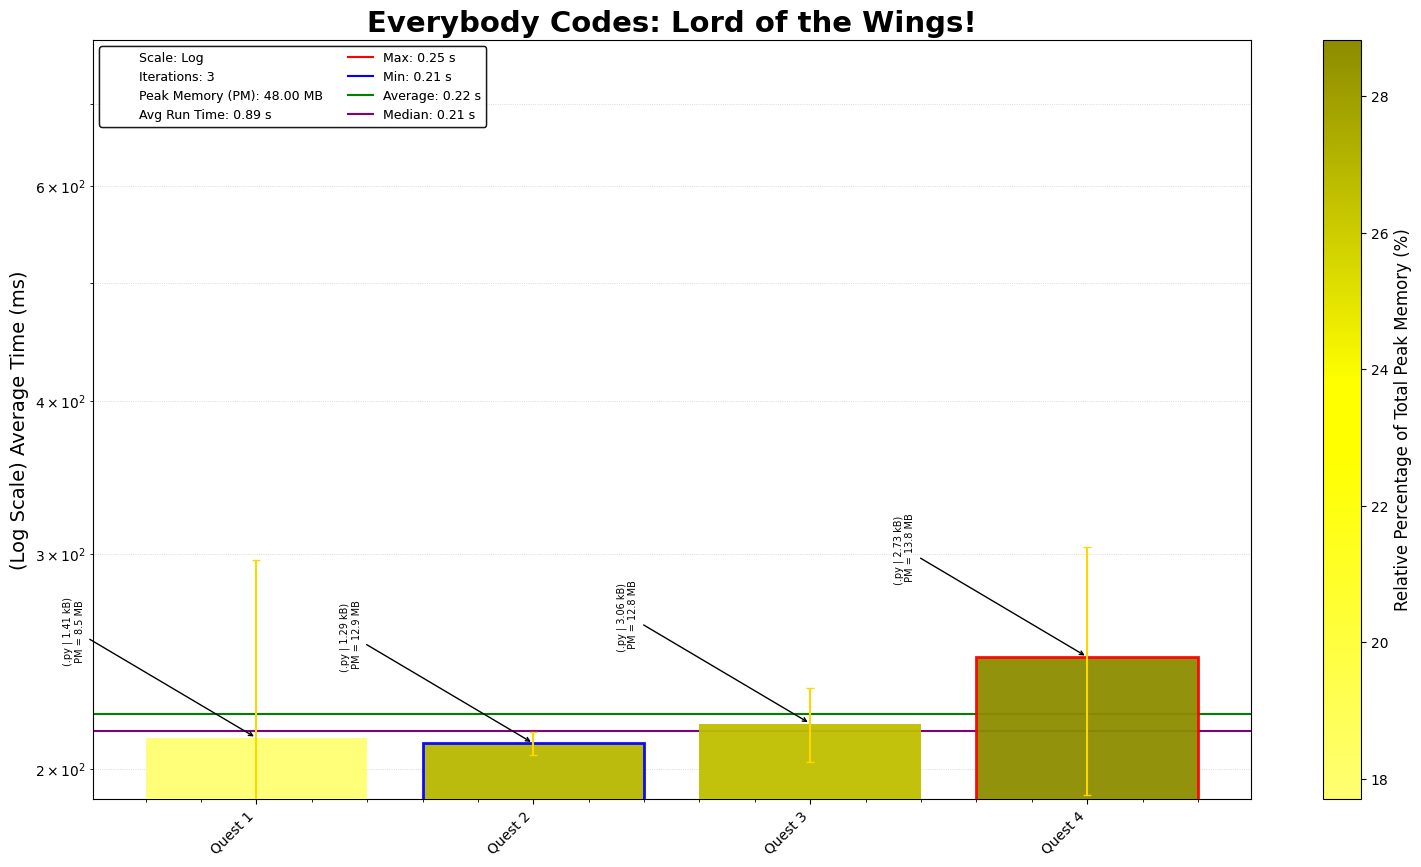
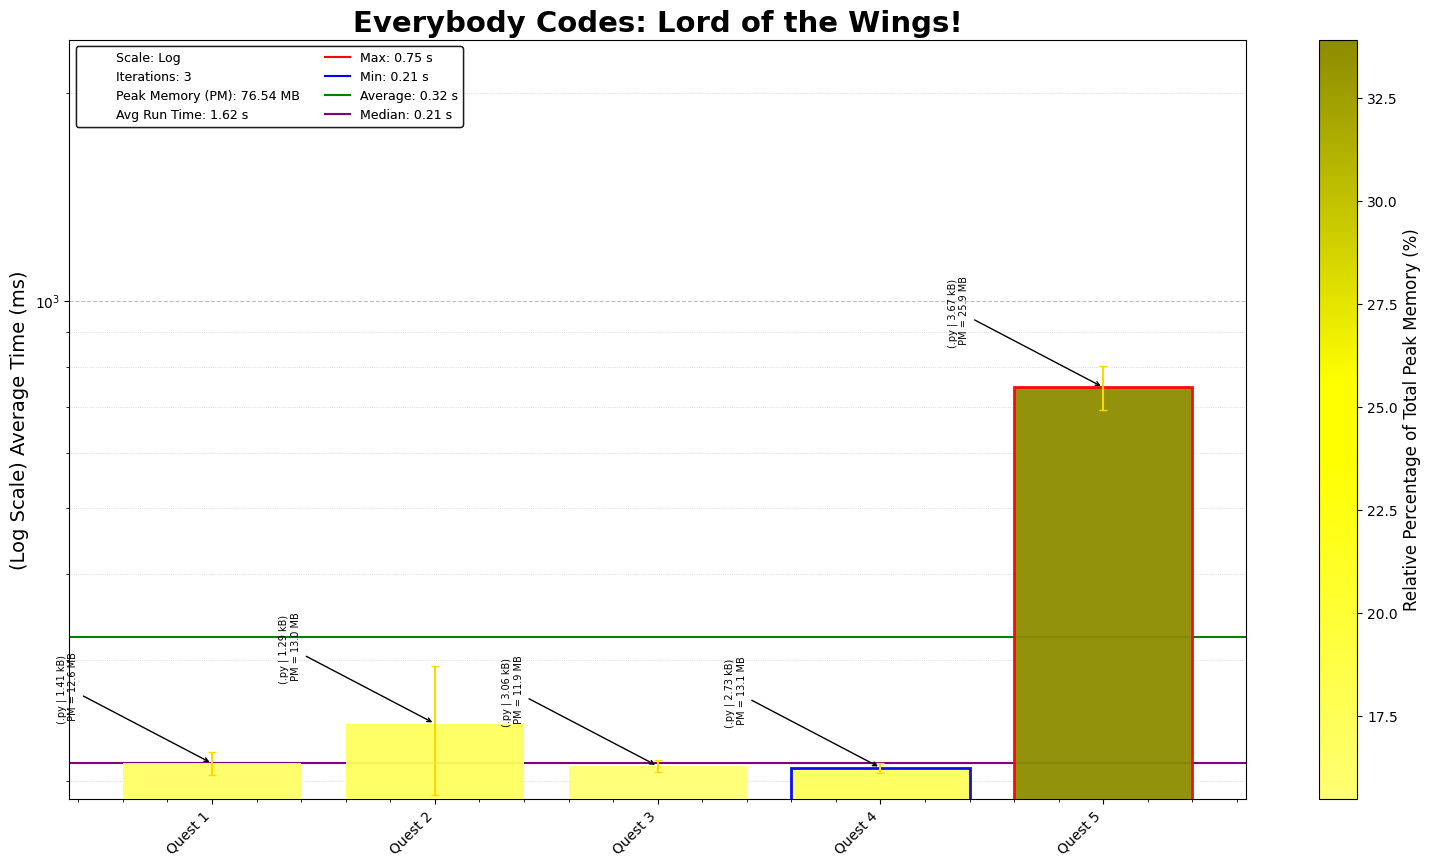
EC 2026, Quest 05

diff --git a/2026/05/2026Day05.py b/2026/05/2026Day05.py
@@ -1,0 +1,111 @@
+"""Everybody Codes - Quest 5, Year 2026
+Solution Started: October 31, 2026
+Puzzle Link: https://everybody.codes/event/2026/quests/5
+Solution by: Abbas Moosajee
+Brief: [The Cartograffity]"""
+
+#!/usr/bin/env python3
+from pathlib import Path
+from collections import defaultdict, deque
+# List of input file names
+input_files = ["Day05_input_p1.txt", "Day05_input_p2.txt", "Day05_input_p3.txt"]
+
+# Read and split the input data into individual lists
+input_data_p1, input_data_p2, input_data_p3 = [
+    open(Path(__file__).parent / file).read().strip().split('\n')
+    for file in input_files
+]
+
+class Cartograffity:
+    neighbors = [(0,1), (1,0), (0,-1), (-1,0), (1,1), (-1,-1), (-1,1), (1,-1)]
+
+    def __init__(self, init_grid):
+        self.mid_point = (len(init_grid)//2, len(init_grid[0])//2)
+        grid_dict = defaultdict(int)
+        for row_no, row in enumerate(init_grid):
+            for col_no, cell in enumerate(row):
+                pos = (row_no, col_no)
+                grid_dict[pos] = int(cell)
+        self.grid_dict = grid_dict
+
+    def build_land(self):
+        land = {self.mid_point}
+        queue = deque([self.mid_point])
+
+        def qualifies(cell):
+            count = 0
+            for dr, dc in self.neighbors:
+                n = (cell[0] + dr, cell[1] + dc)
+                if n in land or self.grid_dict.get(n, 0) == 1:
+                    count += 1
+            return count >= 5
+
+        while queue:
+            curr = queue.popleft()
+            for dr, dc in self.neighbors:
+                cand = (curr[0] + dr, curr[1] + dc)
+                if cand in land or cand not in self.grid_dict:
+                    continue
+                if qualifies(cand):
+                    land.add(cand)
+                    queue.append(cand)
+
+        return land
+
+    def add_coast(self):
+        land = self.build_land()  # build_land must return the set
+
+        sand = set()
+        for point in land:
+            for dr, dc in self.neighbors:
+                cand = (point[0] + dr, point[1] + dc)
+                if cand not in land:
+                    sand.add(point)
+
+        queue = deque(sand)
+        while queue:
+            curr = queue.popleft()
+            for dr, dc in self.neighbors:
+                cand = (curr[0] + dr, curr[1] + dc)
+                if cand not in land or cand in sand:
+                    continue
+                count = sum(
+                    (cand[0] + a, cand[1] + b) in sand
+                    for a, b in self.neighbors
+                )
+                if count >= 5:
+                    sand.add(cand)
+                    queue.append(cand)
+
+        return sand
+
+    def plant_trees(self):
+        land = self.build_land()
+        sand = self.add_coast()
+
+        ground = land - sand
+
+        stamp = [(dr, dc) for dr in range(-2, 3) for dc in range(-2, 3)
+                    if not (abs(dr) == 2 and abs(dc) == 2)]
+
+        trees = {
+            (r, c) for (r, c) in ground
+            if all((r + dr, c + dc) in ground for dr, dc in stamp)
+        }
+
+        for _ in range(2):
+            new_trees = set()
+            for cell in ground - trees:
+                nbrs = [(cell[0] + dr, cell[1] + dc) for dr, dc in self.neighbors]
+                if any(n in sand for n in nbrs):
+                    continue
+                if sum(n in trees for n in nbrs) >= 4:
+                    new_trees.add(cell)
+            trees |= new_trees
+
+        return trees
+print("EC 2026, Quest 05")
+print("Part 1:",len(Cartograffity(input_data_p1).build_land()))
+print("Part 2:",len(Cartograffity(input_data_p2).add_coast()))
+print("Part 2:",len(Cartograffity(input_data_p3).plant_trees()))
+

diff --git a/2026/README_2026.md b/2026/README_2026.md
@@ -10,3 +10,4 @@ This repository contains coding solutions for the 2026 Everybody Codes. Each day
 2. **Day 2 - The Axeperiment**: Well this was a different algorithm to learn
 3. **Day 3 - The ISOlation**: Simple and fun exercise, part 3 isnt too bad once you figure an approach
 4. **Day 4 - The Rankening**: Quick, easy and fun
+5. **Day 5 - The Cartograffity**:
